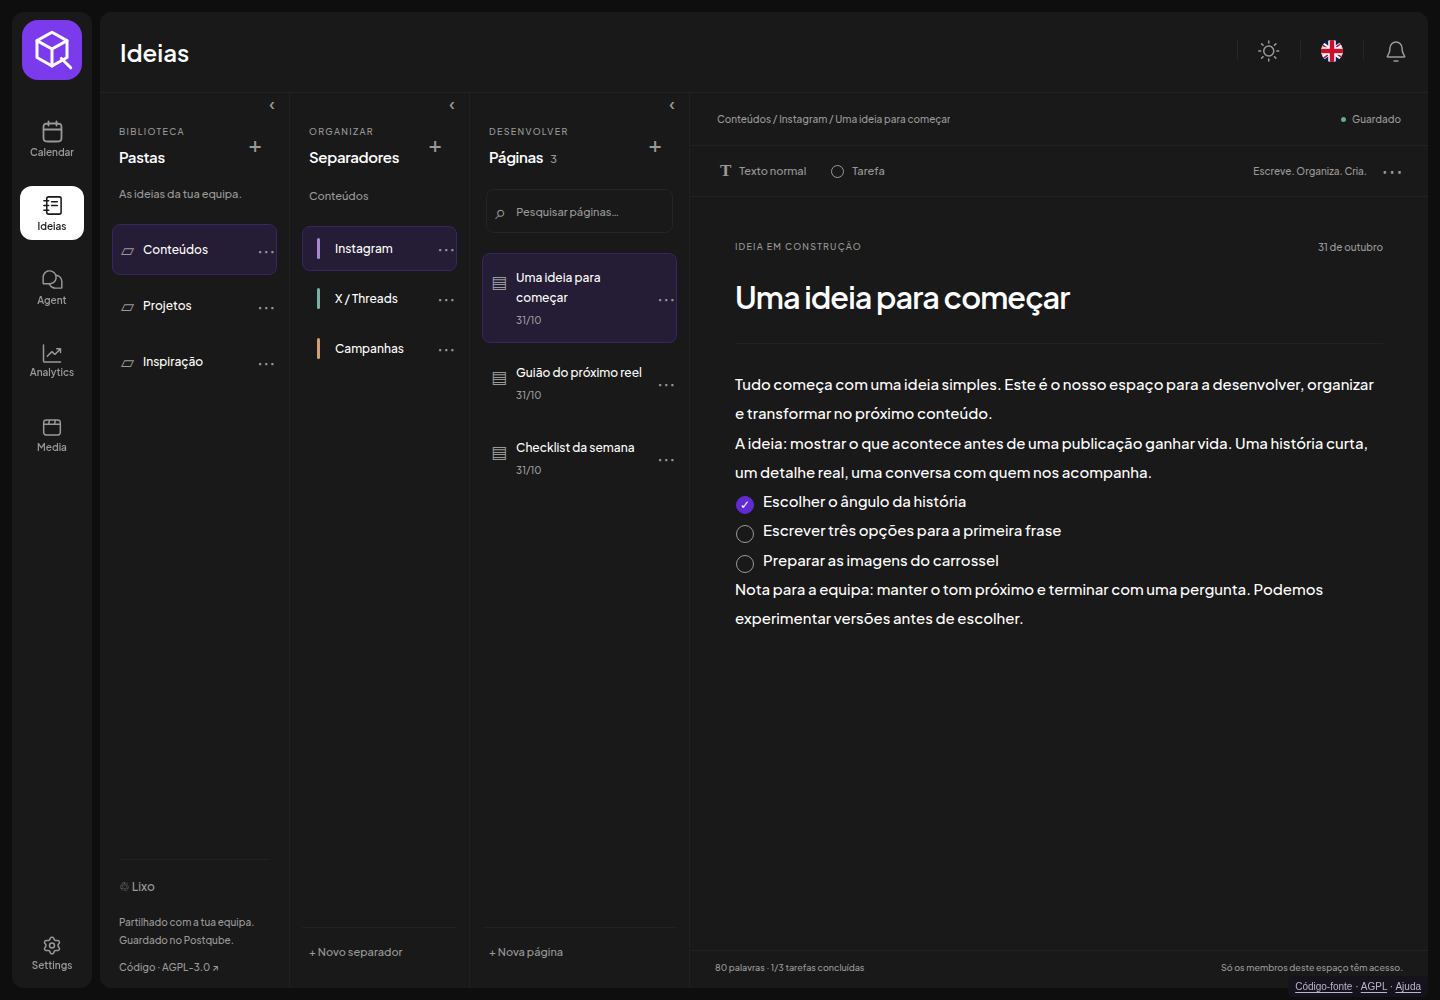
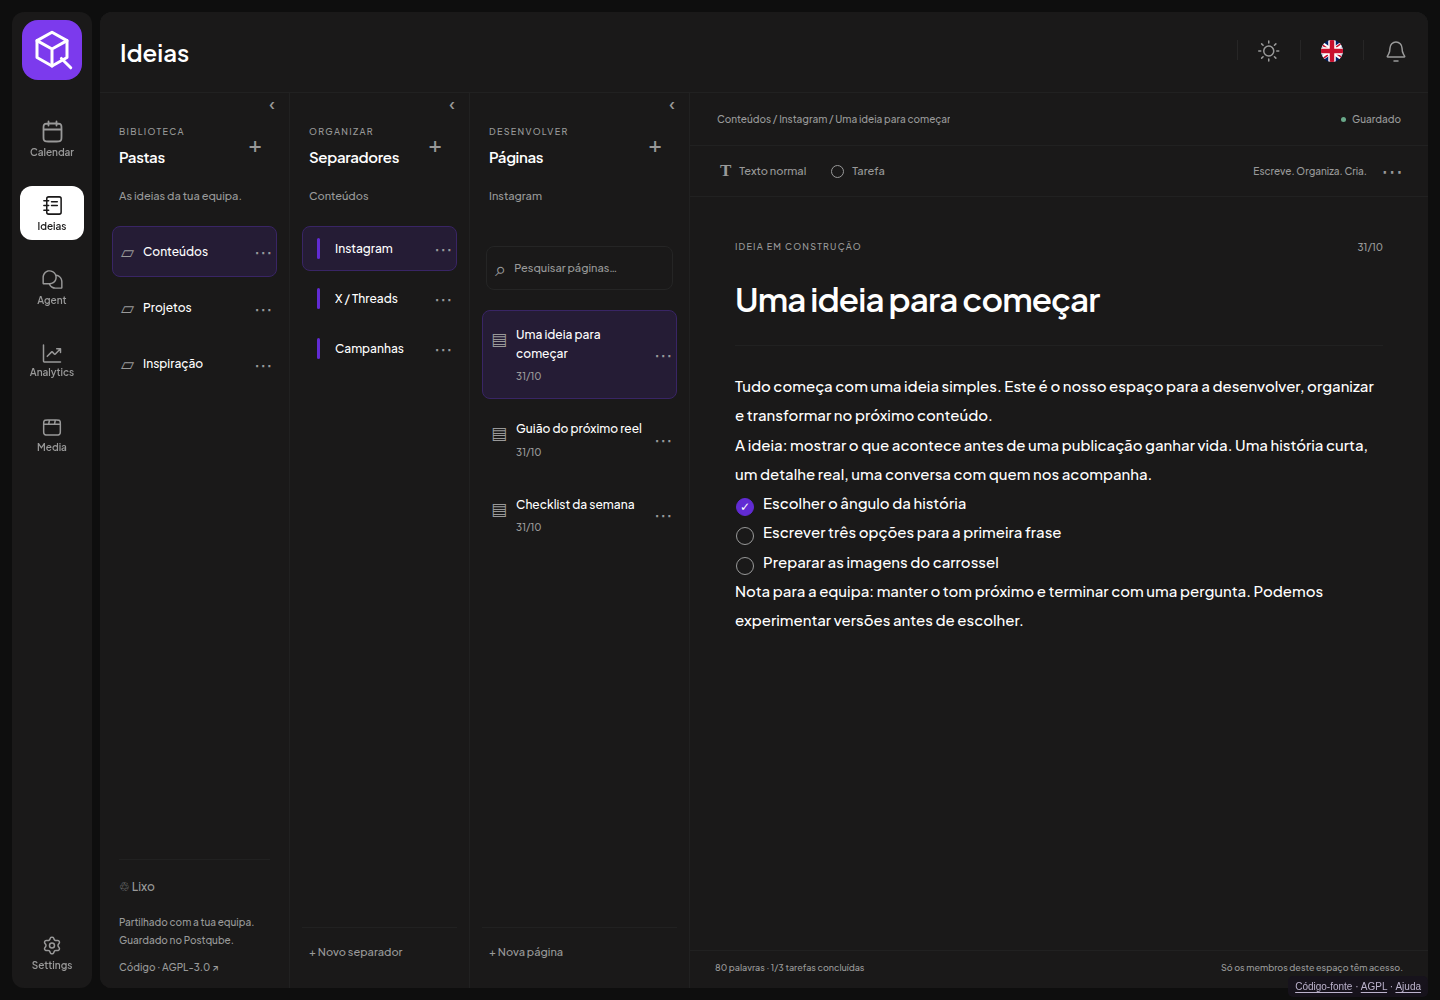
Record native deployment and run CI without heavyweight image export

diff --git a/postqube/native/README.md b/postqube/native/README.md
@@ -21,6 +21,11 @@ Build with sufficient memory; the upstream TypeScript graph needs a 4 GB heap.
 Webpack uses a persistent compiler cache and documented memory optimizations.
 Unconfigured Sentry does not generate source maps or instrument the production
 bundle; configuring Sentry requires a build with the public DSN available.
+CI validates the backend/editor tests and complete frontend in cache-only builds,
+without exporting a large runtime image. The Docker exporter behavior is documented
+in [Docker exporters](https://docs.docker.com/build/exporters/#cache-only-export).
+For release reconstruction, pass the recorded runtimeBaseDigest as POSTIZ_BASE.
+
 Production environment is supplied at runtime through the existing protected
 Compose configuration, retaining its private networks, database and uploads.
 
